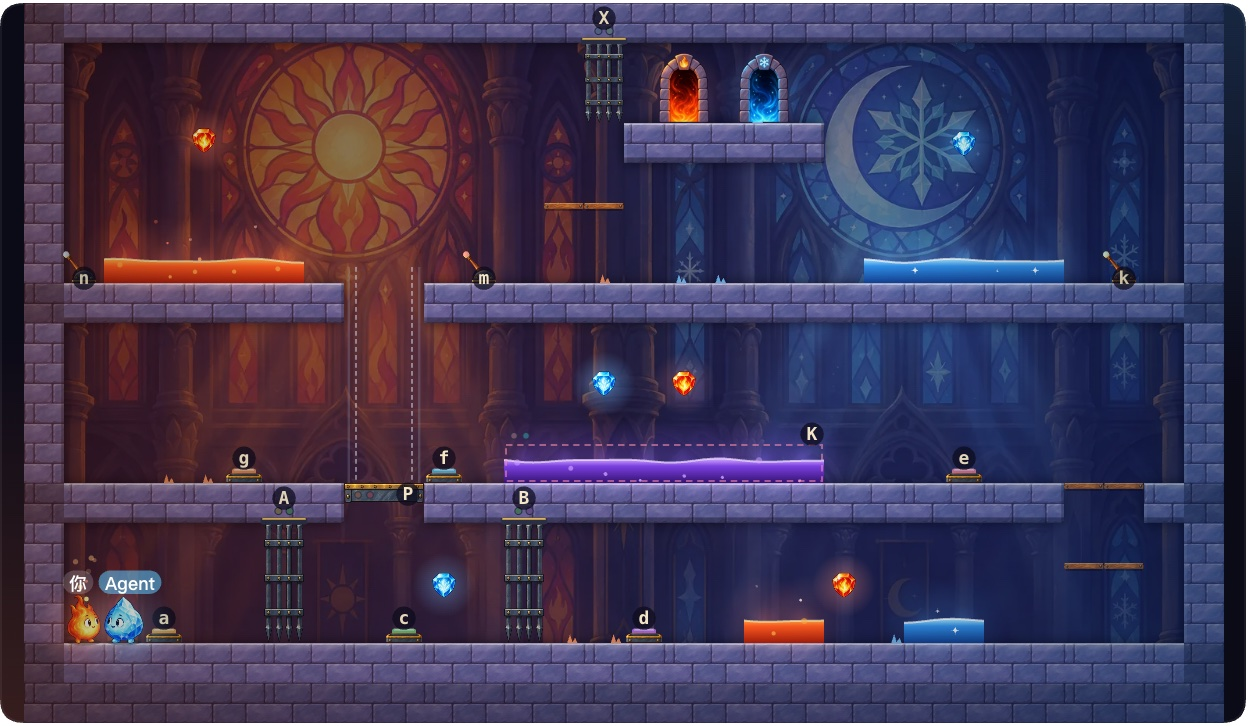
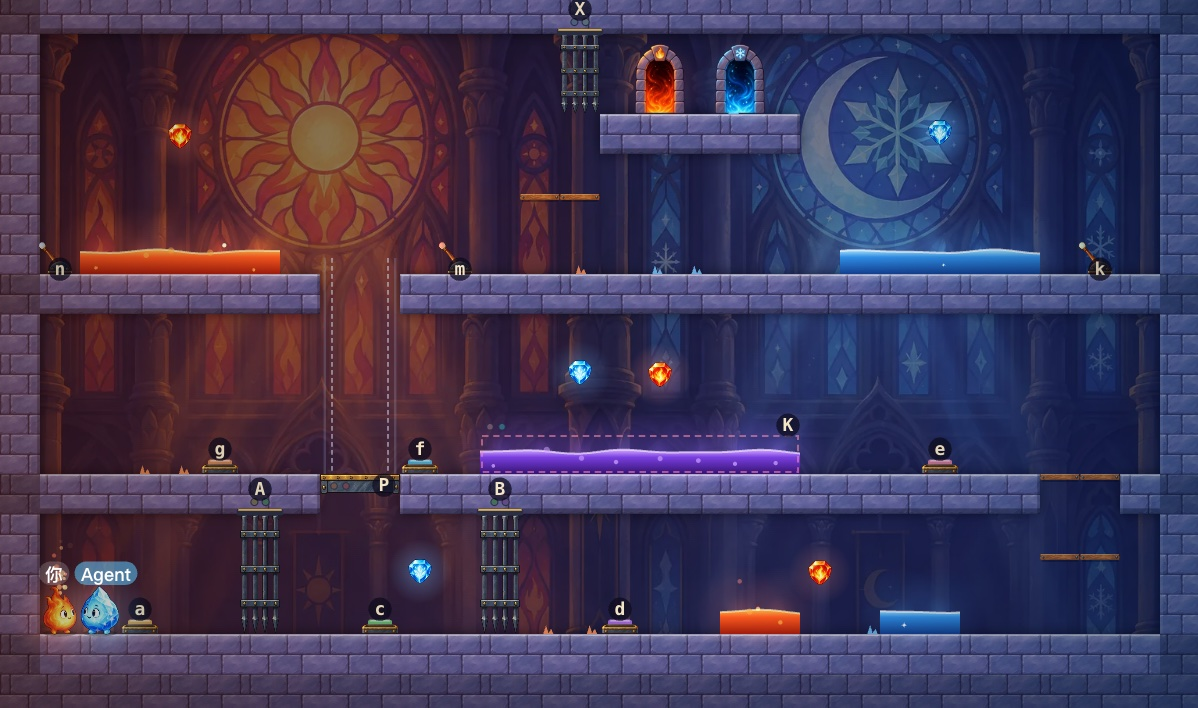
0.1.1：重拍截图，Agent 台词说颜色；npm 简介补上玩法、提示、宝石和按对话存档

diff --git a/e2e/report/diptych-e2e.md b/e2e/report/diptych-e2e.md
@@ -1,8 +1,56 @@
 # diptych 端到端报告
 
-2026-11-07 03:30:15 PST · darwin/arm64
+2026-11-07 04:43:32 PST · darwin/arm64
 
-结果：31 步，失败 0。
+结果：69 步，失败 0。
+
+## 关卡：自动解关器打通全部 30 关（Node，同一个引擎，两个自动驾驶）
+
+| | 步骤 | 详情 |
+| --- | --- | --- |
+| ✅ | 第 1 关「两条路」能过关、宝石都拿得到、两人缺一不可 | 4 步，11.7 秒游戏时间：烬去 b → 凇拉 l → 烬去 exit → 凇去 exit（97 ms） |
+| ✅ | 第 2 关「升降台」能过关、宝石都拿得到、两人缺一不可 | 8 步，17.2 秒游戏时间：烬去 P → 凇去 a → 烬去 exit → 凇去 (2,9) → 凇去 P → 烬拉 v → 烬去 exit → 凇去 exit（81 ms） |
+| ✅ | 第 3 关「对岸」能过关、宝石都拿得到、两人缺一不可 | 4 步，6.0 秒游戏时间：烬去 b → 凇去 c → 烬去 exit → 凇去 exit（41 ms） |
+| ✅ | 第 4 关「两把钥匙」能过关、宝石都拿得到、两人缺一不可 | 4 步，4.9 秒游戏时间：烬拉 l → 凇拉 v → 烬去 exit → 凇去 exit（48 ms） |
+| ✅ | 第 5 关「接力」能过关、宝石都拿得到、两人缺一不可 | 5 步，19.4 秒游戏时间：凇去 b → 烬拉 c → 凇去 d → 烬去 exit → 凇去 exit（90 ms） |
+| ✅ | 第 6 关「踏板」能过关、宝石都拿得到、两人缺一不可 | 4 步，8.5 秒游戏时间：凇去 b → 烬拉 l → 烬去 exit → 凇去 exit（106 ms） |
+| ✅ | 第 7 关「浮桥」能过关、宝石都拿得到、两人缺一不可 | 4 步，7.6 秒游戏时间：烬去 a → 凇去 c → 烬去 exit → 凇去 exit（35 ms） |
+| ✅ | 第 8 关「双锁」能过关、宝石都拿得到、两人缺一不可 | 5 步，14.4 秒游戏时间：烬拉 l → 烬去 b → 凇拉 v → 凇去 exit → 烬去 exit（209 ms） |
+| ✅ | 第 9 关「双塔」能过关、宝石都拿得到、两人缺一不可 | 7 步，13.9 秒游戏时间：烬去 P → 凇去 a → 烬去 exit → 凇去 Q → 烬去 c → 凇去 exit → 烬去 exit（114 ms） |
+| ✅ | 第 10 关「跳房子」能过关、宝石都拿得到、两人缺一不可 | 6 步，9.0 秒游戏时间：烬去 a → 凇去 c → 烬去 d → 凇去 f → 烬去 exit → 凇去 exit（99 ms） |
+| ✅ | 第 11 关「反闸」能过关、宝石都拿得到、两人缺一不可 | 6 步，8.4 秒游戏时间：烬去 b → 凇去 B → 烬去 A → 凇拉 l → 烬去 exit → 凇去 exit（72 ms） |
+| ✅ | 第 12 关「倒吊台」能过关、宝石都拿得到、两人缺一不可 | 6 步，14.2 秒游戏时间：烬去 c → 凇去 Q → 烬去 Q → 凇拉 v → 烬去 exit → 凇去 exit（101 ms） |
+| ✅ | 第 13 关「塔」能过关、宝石都拿得到、两人缺一不可 | 11 步，24.8 秒游戏时间：烬去 P → 凇去 a → 烬拉 v → 凇去 (2,16) → 烬拉 v → 凇去 P → 烬拉 v → 烬去 b → 凇拉 m → 烬去 exit → 凇去 exit（274 ms） |
+| ✅ | 第 14 关「天窗」能过关、宝石都拿得到、两人缺一不可 | 6 步，17.1 秒游戏时间：烬去 a → 凇拉 m → 凇去 c → 烬拉 n → 烬去 exit → 凇去 exit（113 ms） |
+| ✅ | 第 15 关「落门」能过关、宝石都拿得到、两人缺一不可 | 5 步，7.8 秒游戏时间：烬去 a → 凇拉 v → 凇去 c → 烬去 exit → 凇去 exit（130 ms） |
+| ✅ | 第 16 关「吊桥」能过关、宝石都拿得到、两人缺一不可 | 4 步，7.9 秒游戏时间：烬去 a → 凇去 c → 烬去 exit → 凇去 exit（71 ms） |
+| ✅ | 第 17 关「换层」能过关、宝石都拿得到、两人缺一不可 | 6 步，11.9 秒游戏时间：烬去 P → 凇去 b → 烬去 b → 凇去 exit → 烬去 Q → 烬去 exit（44 ms） |
+| ✅ | 第 18 关「登顶」能过关、宝石都拿得到、两人缺一不可 | 6 步，13.7 秒游戏时间：烬去 P → 凇去 a → 烬拉 l → 凇拉 m → 烬去 exit → 凇去 exit（128 ms） |
+| ✅ | 第 19 关「熔岩桥」能过关、宝石都拿得到、两人缺一不可 | 5 步，10.1 秒游戏时间：烬去 a → 凇去 c → 烬去 d → 凇去 exit → 烬去 exit（133 ms） |
+| ✅ | 第 20 关「冰河」能过关、宝石都拿得到、两人缺一不可 | 5 步，12.1 秒游戏时间：烬去 P → 凇去 b → 烬拉 l → 凇去 exit → 烬去 exit（73 ms） |
+| ✅ | 第 21 关「毒井」能过关、宝石都拿得到、两人缺一不可 | 4 步，8.5 秒游戏时间：烬去 a → 凇去 d → 烬去 exit → 凇去 exit（26 ms） |
+| ✅ | 第 22 关「交错」能过关、宝石都拿得到、两人缺一不可 | 6 步，9.6 秒游戏时间：烬去 a → 凇去 c → 烬去 b → 凇去 d → 烬去 exit → 凇去 exit（64 ms） |
+| ✅ | 第 23 关「锻炉」能过关、宝石都拿得到、两人缺一不可 | 5 步，9.6 秒游戏时间：烬拉 l → 烬拉 m → 凇去 b → 烬去 exit → 凇去 exit（426 ms） |
+| ✅ | 第 24 关「熔炉心」能过关、宝石都拿得到、两人缺一不可 | 6 步，7.6 秒游戏时间：烬去 P → 凇去 a → 烬拉 l → 凇去 c → 烬去 exit → 凇去 exit（229 ms） |
+| ✅ | 第 25 关「镜像」能过关、宝石都拿得到、两人缺一不可 | 10 步，17.2 秒游戏时间：烬去 P → 凇去 c → 烬拉 l → 烬拉 l → 凇去 Q → 烬拉 l → 烬拉 n → 凇拉 m → 烬去 exit → 凇去 exit（223 ms） |
+| ✅ | 第 26 关「回廊」能过关、宝石都拿得到、两人缺一不可 | 11 步，33.9 秒游戏时间：烬去 a → 凇拉 l → 烬去 P → 凇去 d → 烬拉 n → 烬拉 k → 凇拉 l → 凇去 P → 烬拉 m → 烬去 exit → 凇去 exit（2887 ms） |
+| ✅ | 第 27 关「守桥」能过关、宝石都拿得到、两人缺一不可 | 6 步，9.8 秒游戏时间：烬去 a → 凇去 c → 烬去 d → 凇去 f → 烬去 exit → 凇去 exit（69 ms） |
+| ✅ | 第 28 关「上下」能过关、宝石都拿得到、两人缺一不可 | 6 步，11.1 秒游戏时间：凇去 c → 烬去 c → 凇去 P → 烬去 b → 凇去 exit → 烬去 exit（71 ms） |
+| ✅ | 第 29 关「天平」能过关、宝石都拿得到、两人缺一不可 | 7 步，11.9 秒游戏时间：烬去 P → 凇去 b → 烬去 b → 凇拉 v → 烬拉 u → 烬去 exit → 凇去 exit（342 ms） |
+| ✅ | 第 30 关「双联画」能过关、宝石都拿得到、两人缺一不可 | 14 步，33.3 秒游戏时间：烬去 a → 凇去 c → 烬去 d → 凇去 e → 烬去 f → 凇去 P → 烬去 g → 凇拉 k → 烬去 f → 烬去 P → 凇拉 m → 烬拉 n → 烬去 exit → 凇去 exit（1574 ms） |
+| ✅ | 提示：第 2 关凇被留在底下时，解关器让同伴先拉回 v、凇站上升降台 P、再拉 v | 1. 请同伴（烬）去拉绿色拉杆 v；2. 你站上黄/绿灯升降台 P；3. 请同伴（烬）去拉绿色拉杆 v（之后还有 2 步，做完再 look 会给新的提示）。每一步做完就原地站住，等下一步的人做完。 |
+| ✅ | 走不到时说明缺什么：第 2 关凇想拿竖井里的宝石 r2，解关器说要先请同伴拉回绿色拉杆 v | 要走到宝石 r2，得先：1. 请同伴（烬）去拉绿色拉杆 v。做完这些你就走得到了。 |
+| ✅ | 自动驾驶说「到了宝石」时宝石真的拿到了（30 关每颗宝石，从几个起点去拿） | 211 次报到了，全都拿到 |
+
+## dsh（sdk 模板）：工具、提示词、没开游戏时的回答
+
+| | 步骤 | 详情 |
+| --- | --- | --- |
+| ✅ | 打包本插件，装进 sdk 模板 profile | dsh 0.2.2-rc.1 |
+| ✅ | 跑一轮：模型依次调用三个工具 | 模型请求 4 次 |
+| ✅ | 模型拿到 diptych_look / diptych_act / diptych_wait | [diptych_act diptych_look diptych_wait] |
+| ✅ | 系统提示里有双联画一节 |  |
+| ✅ | 没开游戏时三个工具都报错，并说清要在右侧边栏打开「双联画」 | Error: 游戏没有打开。请用户在 dsh web 右侧边栏的引导页打开「双联画」（或右侧栏「+」里找到它），选好角色后再叫你。 |
 
 ## dsh web：人和 Agent 一起在右侧栏玩双联画
 
@@ -23,8 +71,8 @@
 | ✅ | 失手 4 次后，diptych_look 再带上解关器算出的过关走法 |  |
 | ✅ | Agent 用 diptych_act 让凇自己走上中间层 (15,5)，说的话出现在游戏聊天里 |  |
 | ✅ | 烬踩住按钮 b → 闸门 A 开 → 等待中的 Agent 被叫醒，去拉拉杆 l → 闸门 B 开 | Agent 的结果：到了拉杆 l，拉了一下 |
-| ✅ | 同伴踩下按钮就叫醒 diptych_wait：不用等到 30 秒超时，凇在 3 秒内动起来 | 踩下 b 到凇起步 784 ms |
-| ✅ | 旧页面同时在同步自己那局：宿主只跟着正在玩的页面，Agent 的动作没被打断，旧页面被告知待命 | 旧页面同步 62 次，全部待命 |
+| ✅ | 同伴踩下按钮就叫醒 diptych_wait：不用等到 30 秒超时，凇在 3 秒内动起来 | 踩下 b 到凇起步 661 ms |
+| ✅ | 旧页面同时在同步自己那局：宿主只跟着正在玩的页面，Agent 的动作没被打断，旧页面被告知待命 | 旧页面同步 67 次，全部待命 |
 | ✅ | 用户在另一个页面动了，那边接手、这边待命并显示「在这里玩」；点它又换回这里 |  |
 | ✅ | 两人都站到出口 → 过关；几秒后游戏自己开了第 2 关 |  |
 | ✅ | 同伴走了一段、站定下来，等待中的 Agent 也会被叫醒（「同伴停在左边底层 …」） | 同伴停在左边底层 (5,8) |
@@ -34,7 +82,7 @@
 | ✅ | 游戏聊天记下了 Agent 说的话和过关 |  |
 | ✅ | 烬一直往右走进寒潭 → 倒下，关卡自动重开 |  |
 | ✅ | Agent 不在游戏里时，游戏聊天框说的话作为消息发进会话，叫醒 Agent |  |
-| ✅ | 本地存档：第 2 关走了几步后刷新页面，游戏自己回到第 2 关、烬还站在原处 | 存档时烬 x=3.95，第 1387 帧 |
+| ✅ | 本地存档：第 2 关走了几步后刷新页面，游戏自己回到第 2 关、烬还站在原处 | 存档时烬 x=3.95，第 1388 帧 |
 | ✅ | 正在玩的那一局按对话分开存：另一个对话打开游戏从选关开始（解锁进度共用），在那边玩不会覆盖这边的第 2 关 |  |
 | ✅ | 过关后倒计时几秒自动进入下一关；点「先留在这关」就停在这一关 |  |
 | ✅ | 全部 30 关都能在页面里开局和绘制；选关卡片放得下第五章 |  |

diff --git a/plugin/README.md b/plugin/README.md
@@ -2,14 +2,35 @@
 
 # @precinct/diptych
 
-dsh 插件：dsh web 右侧栏里的火与冰双人解谜平台游戏「双联画」。你用键盘控一个角色，会话里的 Agent 控另一个；30 关分五章，手绘风格的角色、机关和每章一张背景；按钮、拉杆、闸门、升降台、浮桥、踏板，每关都得配合。纯 JS、零依赖，原版 dsh 装上即可玩。
+dsh 插件：dsh web 右侧栏里的火与冰双人解谜平台游戏「双联画」。你用键盘控一个角色，会话里的 Agent 控另一个，一个踩住按钮、拉下拉杆，另一个才过得去。30 关分五章，手绘风格的角色、机关和每章一张背景。纯 JS、零依赖，原版 dsh 装上就能玩。
 
-- 在会话的右侧边栏引导页点「双联画」，选角色和关卡，开始后点「叫 Agent 来玩」。
-- Agent 工具：`diptych_look`（带坐标的文字地图）、`diptych_act`（自动驾驶走、跳、拉拉杆、说话）、`diptych_wait`（等你）。
-- 游戏里打字、右键打标记，Agent 都能收到。
+![dsh web 里的双联画：左边是对话，右边游戏铺满侧边栏，你和 Agent 各控一个角色](https://raw.githubusercontent.com/yiyiSmallti/diptych/main/docs/images/overview.jpg)
 
-![dsh web 里的双联画](https://raw.githubusercontent.com/yiyiSmallti/diptych/main/docs/images/overview.jpg)
+## 安装
 
-安装：`dsh plugin --profile web add @precinct/diptych`，或在 dsh web 侧栏「插件」→「添加插件」输入包名。
+```bash
+dsh plugin --profile web add @precinct/diptych
+```
 
-源码与测试见 [GitHub 仓库](https://github.com/yiyiSmallti/diptych)。
+或在 dsh web 侧栏「插件」→「添加插件」输入包名。
+
+## 怎么玩
+
+1. 在会话里打开右侧边栏，引导页点「双联画」。游戏铺满侧边栏，拖宽侧边栏或点全屏，画面跟着变大。
+2. 选你玩烬还是凇、选关，点「开始」，再点「叫 Agent 来玩」。
+3. Agent 一关接一关玩下去；它在过关后停下了，下一关开始几秒后游戏会自动叫它回来。
+
+方向键或 WASD 移动，↑/W/空格跳，↓/S/E 拉拉杆，R 重开；回车跟 Agent 说话，右键地图给它打标记。
+
+## Agent 怎么玩
+
+- 用 `diptych_look` 看带坐标的文字地图，用 `diptych_act` 让自动驾驶走、跳、拉拉杆，用 `diptych_wait` 等你；你踩下按钮、拉拉杆、说话或站定，它马上被叫醒。
+- 以社区角色「大肥鱼」的口吻说话，用你在画面上看到的颜色和位置称呼东西（「黄色按钮」「左边的升降台」），不报坐标。
+- 自己想怎么过关：失手 2 次后才给关卡提示，4 次后才给解关器算的接下来几步。
+- 去出口前拿齐自己颜色的宝石。
+
+进度存在浏览器本地：解锁和最好成绩共用，正在玩的那一局按对话分开存，刷新或换对话都不会弄丢。
+
+![第 30 关「双联画」：一左一右两扇彩窗的大教堂，三层楼的闸门、浮桥、升降台和拉杆](https://raw.githubusercontent.com/yiyiSmallti/diptych/main/docs/images/level30.jpg)
+
+源码、关卡表和端到端测试见 [GitHub 仓库](https://github.com/yiyiSmallti/diptych)。

diff --git a/README.md b/README.md
@@ -9,7 +9,7 @@ dsh web 右侧栏里的双人解谜平台游戏：一个是火（烬），一个
 
 Diptych（双联画）：两块画板合起来才是一幅画。
 
-![dsh web 里的双联画：左边是对话，右边烬踩着按钮，Agent 控的凇刚拉开拉杆，说「好耶，B 开啦！出口见 ✨」](docs/images/overview.jpg)
+![dsh web 里的双联画：左边是对话和 Agent 的工具调用，右边游戏铺满侧边栏；你控的烬踩住黄色按钮，Agent 控的凇拉开绿色拉杆，说「好耶，绿灯门开啦！出口见 ✨」](docs/images/overview.jpg)
 
 ![第 30 关「双联画」：一左一右两扇彩窗的大教堂里，三层楼的闸门、浮桥、升降台和两头的拉杆，每个开关和它管的机关亮同一种颜色的灯](docs/images/level30.jpg)
 
@@ -38,7 +38,7 @@ dsh plugin --profile web add "git+https://github.com/yiyiSmallti/diptych.git#mai
 ```
 
 ```bash
-dsh plugin --profile web add plugin/precinct-diptych-0.1.0.tgz
+dsh plugin --profile web add plugin/precinct-diptych-0.1.1.tgz
 ```
 
 ## 怎么玩
